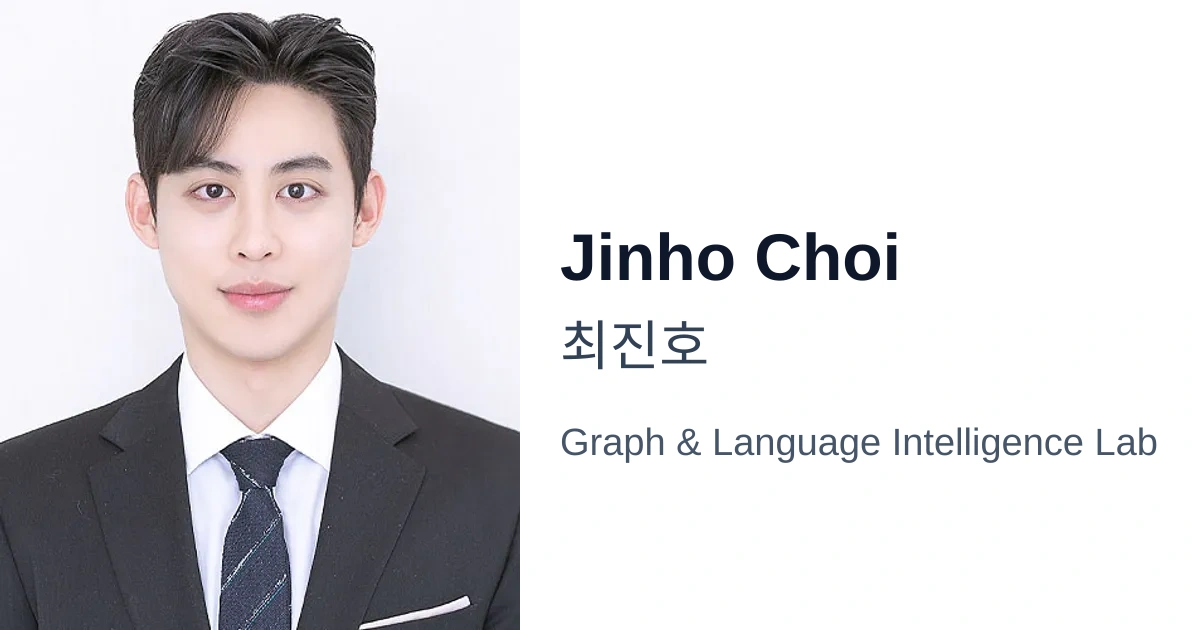
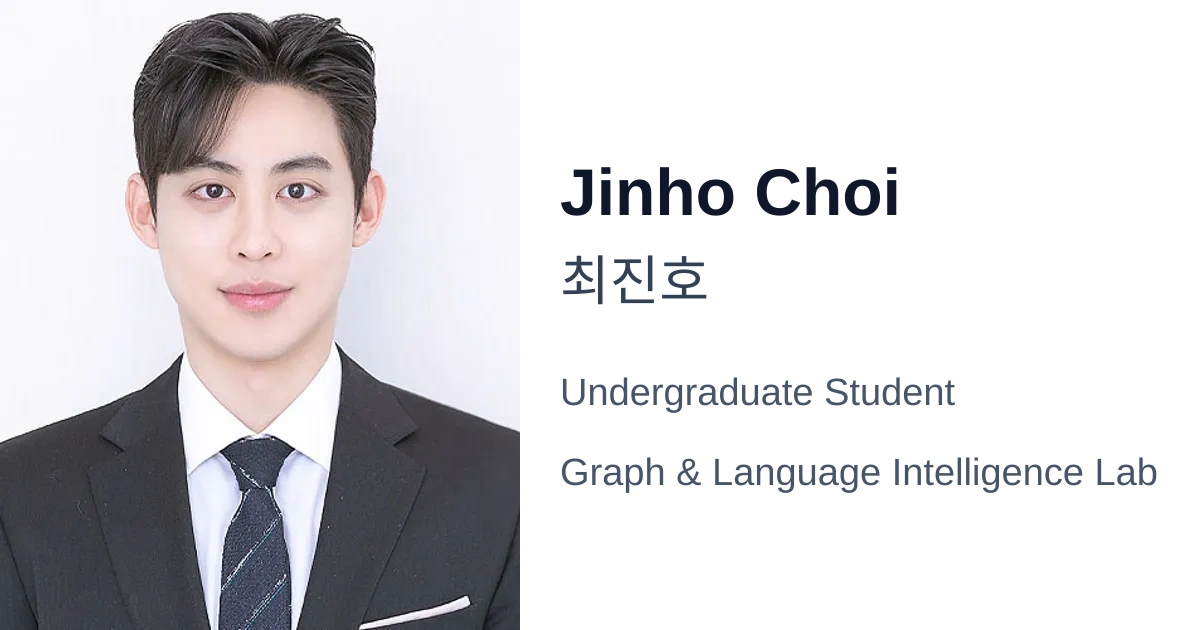
Update profile image handling

Changed region(s): [[0.4625, 0.5127, 0.9867, 0.7841], [0.4625, 0.2714, 0.7708, 0.4825]]

diff --git a/scripts/generate-og-images.js b/scripts/generate-og-images.js
@@ -51,42 +51,78 @@ function findLatestFile(files) {
   
   return fileWithYearSemester[0].file;
 }
-// YAML 프로필을 변환하는 함수
-function transformProfile(yamlProfile, isAlumni = false) {
-  const photoUrls = (yamlProfile.photos || []).map(photo => {
-    return isAlumni ? `/images/profiles/alumni/${photo}.webp` : `/images/profiles/${photo}.webp`;
-  });
-
-  return {
-    id: yamlProfile.id || "",
-    name_en: yamlProfile.name.en || "",
-    name_ko: yamlProfile.name.ko || "",
-    photo: photoUrls.length > 0 ? photoUrls : ["/images/profiles/ku_basic_1_down.png"],
-  };
+// 파일명에서 프로필 ID 추출 (예: "[2024.03] 오병국1.webp" -> "[2024.03] 오병국")
+function extractProfileIdFromFilename(filename) {
+  // 파일 확장자 제거
+  const nameWithoutExt = filename.replace(/\.(webp|jpg|jpeg|png)$/i, '');
+  // 끝의 숫자 제거 (예: "1", "2", "3" 등)
+  const profileId = nameWithoutExt.replace(/\d+$/, '');
+  return profileId;
 }
 
-// 프로필 데이터를 가져오는 함수
-async function getProfiles() {
+// 프로필 ID로 YAML에서 프로필 정보 찾기
+async function findProfileById(profileId, isAlumni = false) {
   try {
-    const filePath = await findProfileFile('profiles.yaml');
+    const filePath = await findProfileFile(isAlumni ? 'profiles-alumni.yaml' : 'profiles.yaml');
     const yamlText = await fs.readFile(filePath, 'utf8');
     const rawData = yaml.load(yamlText);
-    return rawData.map(profile => transformProfile(profile, false));
+    return rawData.find(profile => profile.id === profileId) || null;
   } catch (error) {
-    console.error('Error loading profiles:', error);
-    return [];
+    console.error(`Error loading ${isAlumni ? 'alumni' : 'profiles'} YAML:`, error);
+    return null;
   }
 }
 
-// Alumni 프로필 데이터를 가져오는 함수
-async function getAlumniProfiles() {
+// public/images/profiles에서 *1.webp 파일들을 찾아서 프로필 정보와 매칭
+// 일반 프로필과 alumni 프로필 모두 처리 (alumni 폴더 분리 없음)
+async function getProfilesFromFiles() {
   try {
-    const filePath = await findProfileFile('profiles-alumni.yaml');
-    const yamlText = await fs.readFile(filePath, 'utf8');
-    const rawData = yaml.load(yamlText);
-    return rawData.map(profile => transformProfile(profile, true));
+    const profilesDir = path.join(process.cwd(), 'public', 'images', 'profiles');
+    const files = await fs.readdir(profilesDir);
+    
+    // 디렉토리 제외하고 파일만 필터링
+    const fileList = [];
+    for (const file of files) {
+      const filePath = path.join(profilesDir, file);
+      const stats = await fs.stat(filePath);
+      if (stats.isFile()) {
+        fileList.push(file);
+      }
+    }
+    
+    // *1.webp 패턴의 파일들만 필터링
+    const profile1Files = fileList.filter(file => {
+      const nameWithoutExt = file.replace(/\.(webp|jpg|jpeg|png)$/i, '');
+      return /1$/.test(nameWithoutExt);
+    });
+    
+    const profiles = [];
+    
+    for (const filename of profile1Files) {
+      const profileId = extractProfileIdFromFilename(filename);
+      
+      // 먼저 일반 profiles.yaml에서 찾고, 없으면 profiles-alumni.yaml에서 찾기
+      let yamlProfile = await findProfileById(profileId, false);
+      if (!yamlProfile) {
+        yamlProfile = await findProfileById(profileId, true);
+      }
+      
+      if (yamlProfile) {
+        profiles.push({
+          id: profileId,
+          name_en: yamlProfile.name?.en || "",
+          name_ko: yamlProfile.name?.ko || "",
+          role_title: yamlProfile.role?.title || "",
+          photo: [`/images/profiles/${filename}`],
+        });
+      } else {
+        console.warn(`⚠  Profile not found in YAML for file: ${filename} (ID: ${profileId})`);
+      }
+    }
+    
+    return profiles;
   } catch (error) {
-    console.error('Error loading alumni profiles:', error);
+    console.error('Error loading profiles from files:', error);
     return [];
   }
 }
@@ -110,11 +146,12 @@ async function imageToBase64(imagePath) {
 }
 
 // WebP 기반 OpenGraph 이미지 생성
-async function generateOGImageWebP({ photoUrl, nameEn, nameKo }) {
+async function generateOGImageWebP({ photoUrl, nameEn, nameKo, roleTitle }) {
   const width = 1200;
   const height = 630;
   
   try {
+    
     // 배경 생성 (흰색)
     let composite = [{
       input: Buffer.from(`<svg width="${width}" height="${height}">
@@ -126,7 +163,8 @@ async function generateOGImageWebP({ photoUrl, nameEn, nameKo }) {
     
     // 프로필 이미지가 있으면 추가
     if (photoUrl && photoUrl.startsWith('/images/profiles/')) {
-      const localImagePath = path.join(process.cwd(), 'public', photoUrl.replace('.jpg', '.webp').replace('.jpeg', '.webp').replace('.png', '.webp'));
+      // /images/profiles/... 경로를 public/images/profiles/... 로 변환
+      const localImagePath = path.join(process.cwd(), 'public', photoUrl);
       
       try {
         await fs.access(localImagePath);
@@ -147,24 +185,34 @@ async function generateOGImageWebP({ photoUrl, nameEn, nameKo }) {
     }
     
     // 텍스트 오버레이 생성
-    const textY = nameKo ? 280 : 315;
-    const koreanY = 365;
-    const labY = nameKo ? 455 : 400;
+    const nameEnY = 215;
+    const nameKoY = 300;
+    const roleTitleY = 405;
+    const labY = 485;
     
-    let textSvg = `<svg width="${width}" height="${height}">
-      <text x="560" y="${textY}" font-family="Arial, sans-serif" font-size="66" font-weight="700" fill="#0f172a" text-anchor="start">
+    let textSvg = `<svg width="${width}" height="${height}" xmlns="http://www.w3.org/2000/svg">
+      <text x="560" y="${nameEnY}" font-family="Arial, sans-serif" font-size="66" font-weight="700" fill="#0f172a" text-anchor="start">
         ${nameEn || 'GLI Lab Member'}
       </text>`;
     
     if (nameKo) {
       textSvg += `
-      <text x="560" y="${koreanY}" font-family="Arial, sans-serif" font-size="54" fill="#334155" text-anchor="start">
+      <text x="560" y="${nameKoY}" font-family="Arial, sans-serif" font-size="54" font-weight="400" fill="#334155" text-anchor="start">
         ${nameKo}
       </text>`;
     }
     
+    if (roleTitle) {
+      // 괄호와 그 안의 학기 정보 제거 (예: "M.S. Student (2학기)" -> "M.S. Student")
+      const cleanRoleTitle = roleTitle.replace(/\s*\([^)]*\)\s*/g, '').trim();
+      textSvg += `
+      <text x="560" y="${roleTitleY}" font-family="Arial, sans-serif" font-size="38" font-weight="400" fill="#475569" text-anchor="start">
+        ${cleanRoleTitle}
+      </text>`;
+    }
+    
     textSvg += `
-      <text x="560" y="${labY}" font-family="Arial, sans-serif" font-size="38" fill="#475569" text-anchor="start">
+      <text x="560" y="${labY}" font-family="Arial, sans-serif" font-size="38" font-weight="400" fill="#475569" text-anchor="start">
         Graph &amp; Language Intelligence Lab
       </text>
     </svg>`;
@@ -196,48 +244,6 @@ async function generateOGImageWebP({ photoUrl, nameEn, nameKo }) {
   }
 }
 
-// SVG 기반 OpenGraph 이미지 생성 (백업용)
-async function generateOGImageSVG({ photoUrl, nameEn, nameKo }) {
-  let imageData = '';
-  
-  // 로컬 이미지 파일을 base64로 인코딩
-  if (photoUrl && photoUrl.startsWith('/images/profiles/')) {
-    const localImagePath = path.join(process.cwd(), 'public', photoUrl);
-    const base64Data = await imageToBase64(localImagePath);
-    if (base64Data) {
-      imageData = `<image href="${base64Data}" x="0" y="0" width="520" height="630" preserveAspectRatio="xMidYMid meet"/>`;
-    }
-  }
-  
-  return `<svg width="1200" height="630" xmlns="http://www.w3.org/2000/svg">
-  <!-- Background -->
-  <rect x="0" y="0" width="1200" height="630" fill="white"/>
-  
-  <!-- Photo Section -->
-  <rect x="0" y="0" width="520" height="630" fill="white"/>
-  ${imageData}
-  
-  <!-- Text Section -->
-  <g transform="translate(556, 0)">
-    <!-- Main Name -->
-    <text x="36" y="${nameKo ? '280' : '315'}" font-family="Arial, sans-serif" font-size="66" font-weight="700" fill="#0f172a" text-anchor="start">
-      ${nameEn || 'GLI Lab Member'}
-    </text>
-    
-    ${nameKo ? `
-    <!-- Korean Name -->
-    <text x="36" y="365" font-family="Arial, sans-serif" font-size="54" fill="#334155" text-anchor="start">
-      ${nameKo}
-    </text>
-    ` : ''}
-    
-    <!-- Lab Name -->
-    <text x="36" y="${nameKo ? '455' : '400'}" font-family="Arial, sans-serif" font-size="38" fill="#475569" text-anchor="start">
-      Graph &amp; Language Intelligence Lab
-    </text>
-  </g>
-</svg>`;
-}
 
 // 정적 이미지 파일 생성
 async function generateStaticImages(forceRegenerate = false) {
@@ -247,17 +253,13 @@ async function generateStaticImages(forceRegenerate = false) {
   }
   
   try {
-    // 출력 디렉토리 생성
+    // 출력 디렉토리 생성 (alumni 서브폴더 없이)
     const outputDir = path.join(process.cwd(), 'public', 'images', 'profiles-og');
     await fs.mkdir(outputDir, { recursive: true });
     
-    const membersDir = outputDir; // members는 profiles-og 루트에
-    const alumniDir = path.join(outputDir, 'alumni');
-    await fs.mkdir(alumniDir, { recursive: true });
-    
-    // Members 이미지 생성
-    const profiles = await getProfiles();
-    console.log(`📝 Checking ${profiles.length} member images...`);
+    // 모든 프로필 이미지 생성 (일반 프로필과 alumni 모두 포함)
+    const profiles = await getProfilesFromFiles();
+    console.log(`📝 Checking ${profiles.length} profile images...`);
     
     let generatedCount = 0;
     let skippedCount = 0;
@@ -265,7 +267,7 @@ async function generateStaticImages(forceRegenerate = false) {
     for (const profile of profiles) {
       if (profile.id) {
         const filename = `${profile.id}.webp`;
-        const filepath = path.join(membersDir, filename);
+        const filepath = path.join(outputDir, filename);
         
         // 파일이 이미 존재하는지 확인 (강제 재생성 모드가 아닌 경우)
         if (!forceRegenerate) {
@@ -283,7 +285,8 @@ async function generateStaticImages(forceRegenerate = false) {
         const webpBuffer = await generateOGImageWebP({
           photoUrl: photoPath,
           nameEn: profile.name_en,
-          nameKo: profile.name_ko
+          nameKo: profile.name_ko,
+          roleTitle: profile.role_title
         });
         
         await fs.writeFile(filepath, webpBuffer);
@@ -292,54 +295,10 @@ async function generateStaticImages(forceRegenerate = false) {
       }
     }
     
-    console.log(`📊 Members: ${generatedCount} generated, ${skippedCount} skipped`);
-    
-    // Alumni 이미지 생성
-    const alumniProfiles = await getAlumniProfiles();
-    console.log(`📝 Checking ${alumniProfiles.length} alumni images...`);
-    
-    let alumniGeneratedCount = 0;
-    let alumniSkippedCount = 0;
-    
-    for (const profile of alumniProfiles) {
-      if (profile.id) {
-        const filename = `${profile.id}.webp`;
-        const filepath = path.join(alumniDir, filename);
-        
-        // 파일이 이미 존재하는지 확인 (강제 재생성 모드가 아닌 경우)
-        if (!forceRegenerate) {
-          try {
-            await fs.access(filepath);
-            console.log(`  ⏭  Skipped (exists): ${filename}`);
-            alumniSkippedCount++;
-            continue;
-          } catch {
-            // 파일이 없으면 생성
-          }
-        }
-        
-        const photoPath = profile.photo?.[0]; // 로컬 경로 사용
-        const webpBuffer = await generateOGImageWebP({
-          photoUrl: photoPath,
-          nameEn: profile.name_en,
-          nameKo: profile.name_ko
-        });
-        
-        await fs.writeFile(filepath, webpBuffer);
-        console.log(`  ✅ Generated: ${filename}`);
-        alumniGeneratedCount++;
-      }
-    }
-    
-    console.log(`📊 Alumni: ${alumniGeneratedCount} generated, ${alumniSkippedCount} skipped`);
-    
     // fallback 이미지는 기존 로고 이미지 사용 (/images/logo/GLI_opengraph_2000x1050.jpg)
     
-    const totalGenerated = generatedCount + alumniGeneratedCount;
-    const totalSkipped = skippedCount + alumniSkippedCount;
-    
     console.log('🎉 OpenGraph image generation completed!');
-    console.log(`📈 Summary: ${totalGenerated} generated, ${totalSkipped} skipped`);
+    console.log(`📈 Summary: ${generatedCount} generated, ${skippedCount} skipped`);
     
   } catch (error) {
     console.error('❌ Error generating images:', error);
@@ -361,6 +320,5 @@ if (require.main === module) {
 
 module.exports = {
   generateStaticImages,
-  getProfiles,
-  getAlumniProfiles
+  getProfilesFromFiles
 };
